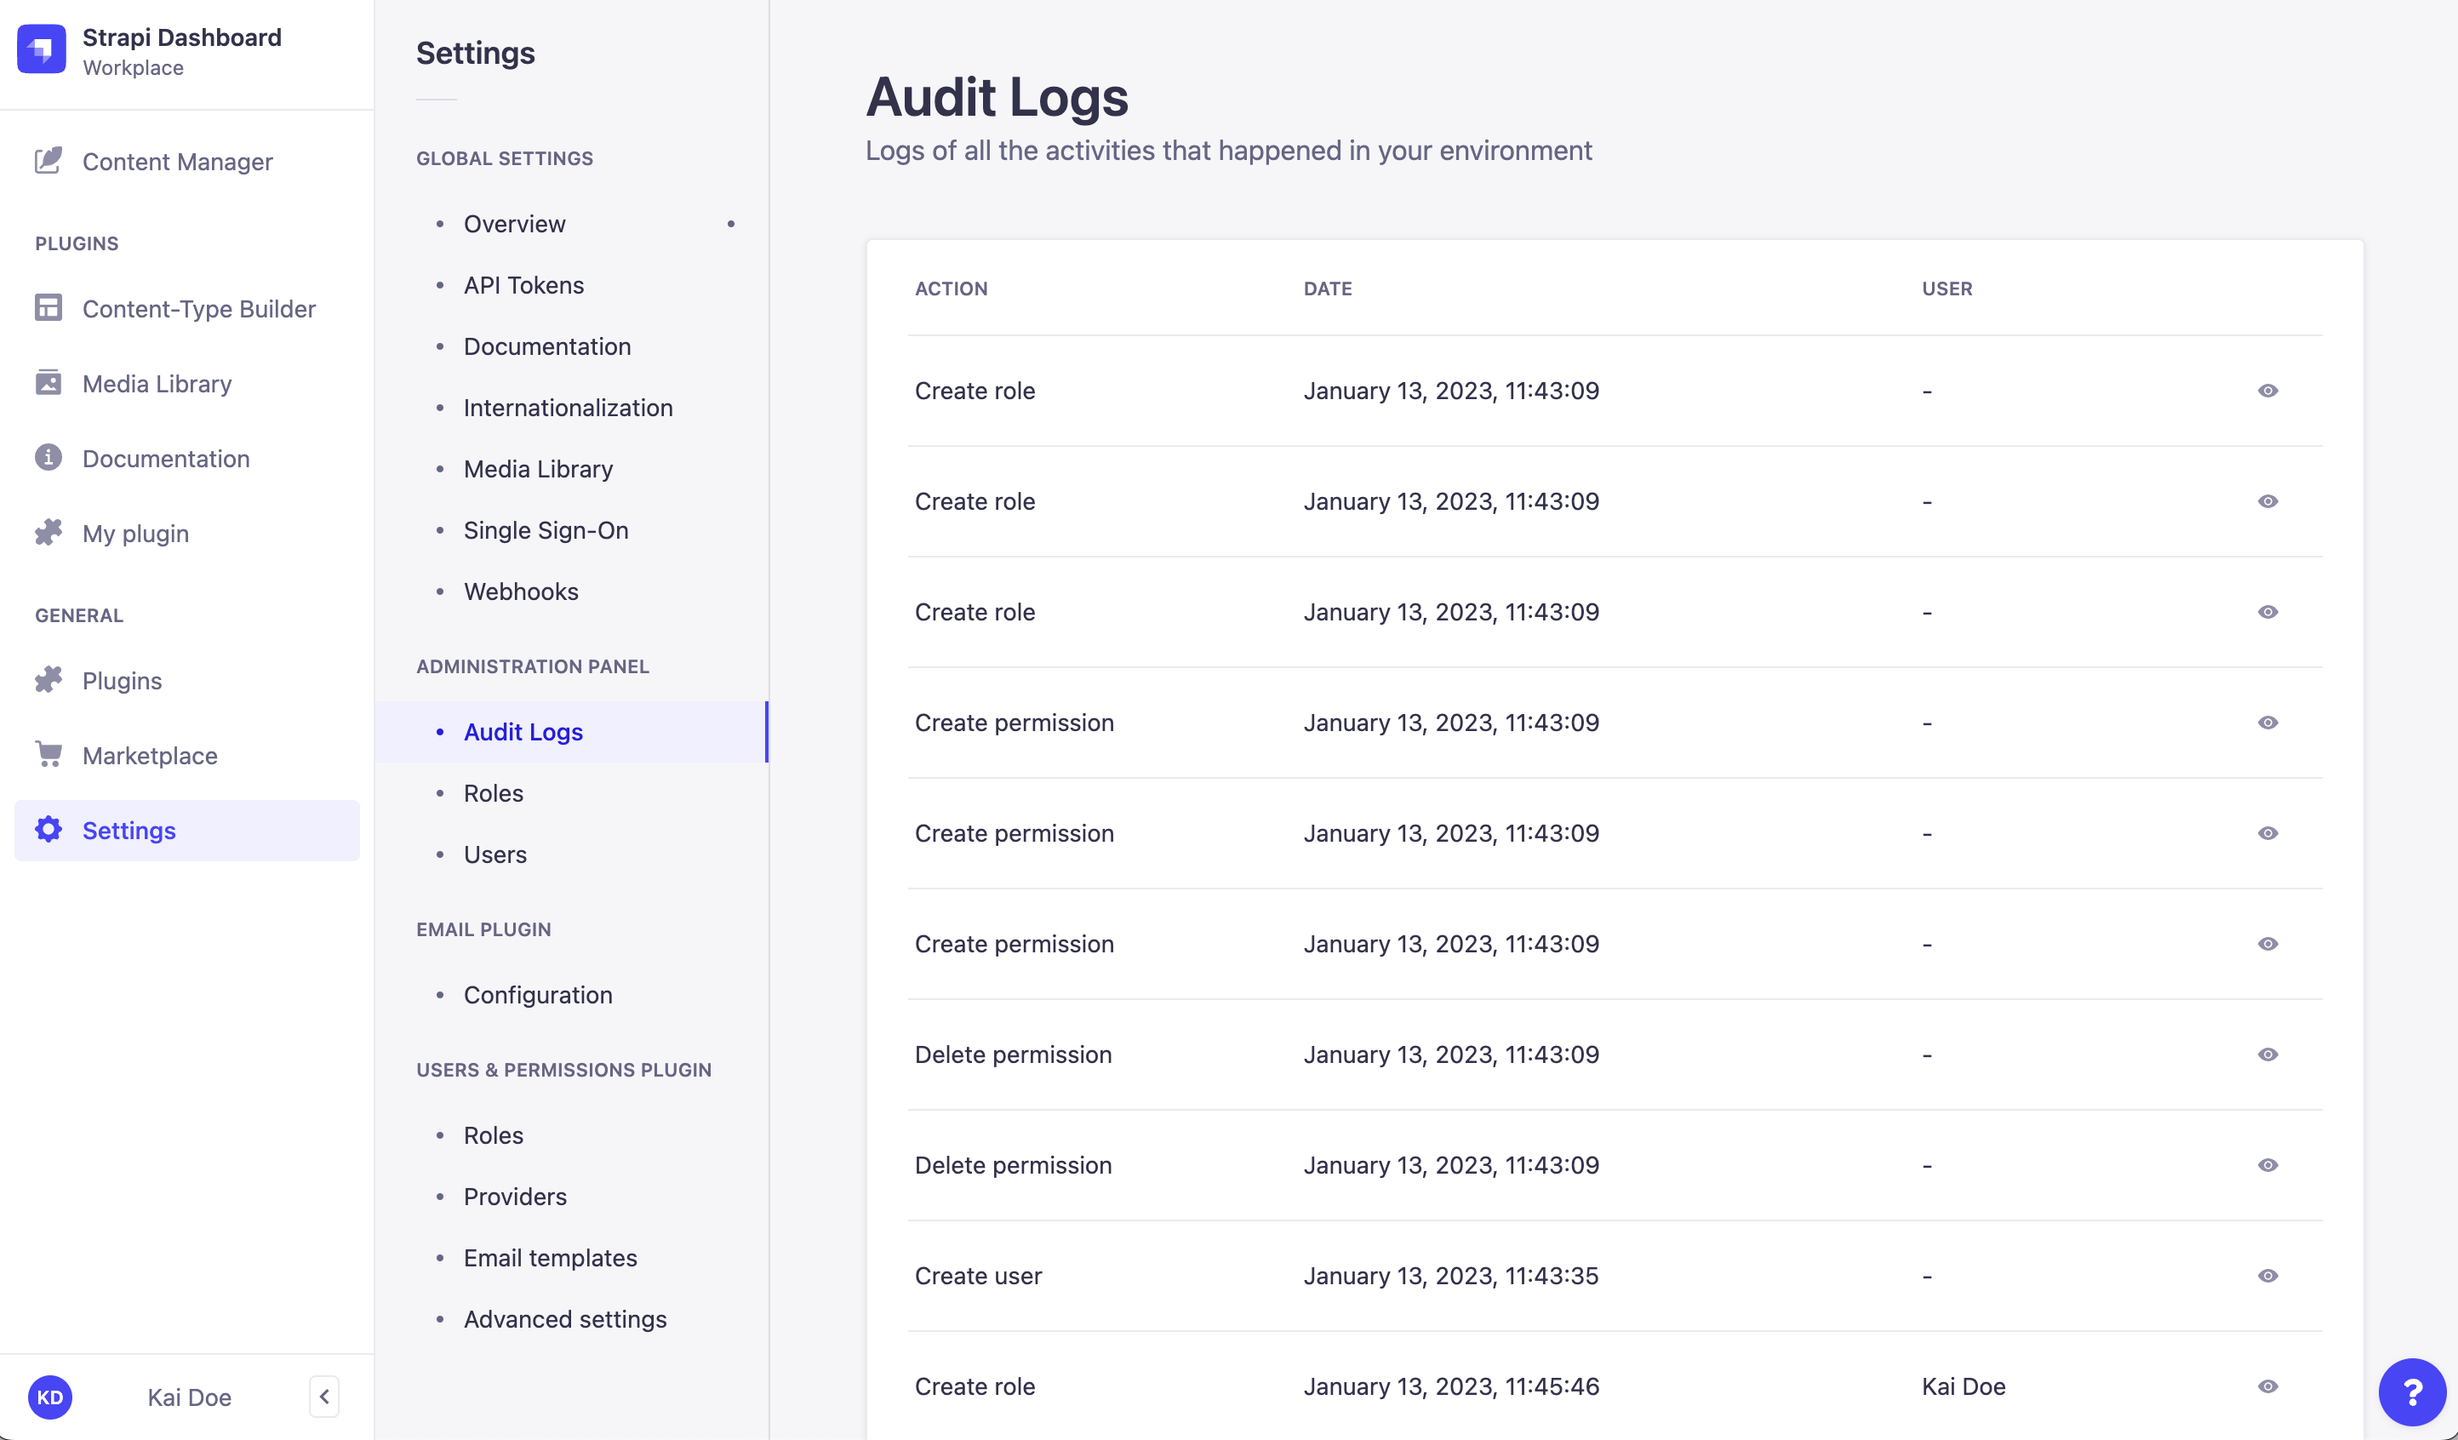
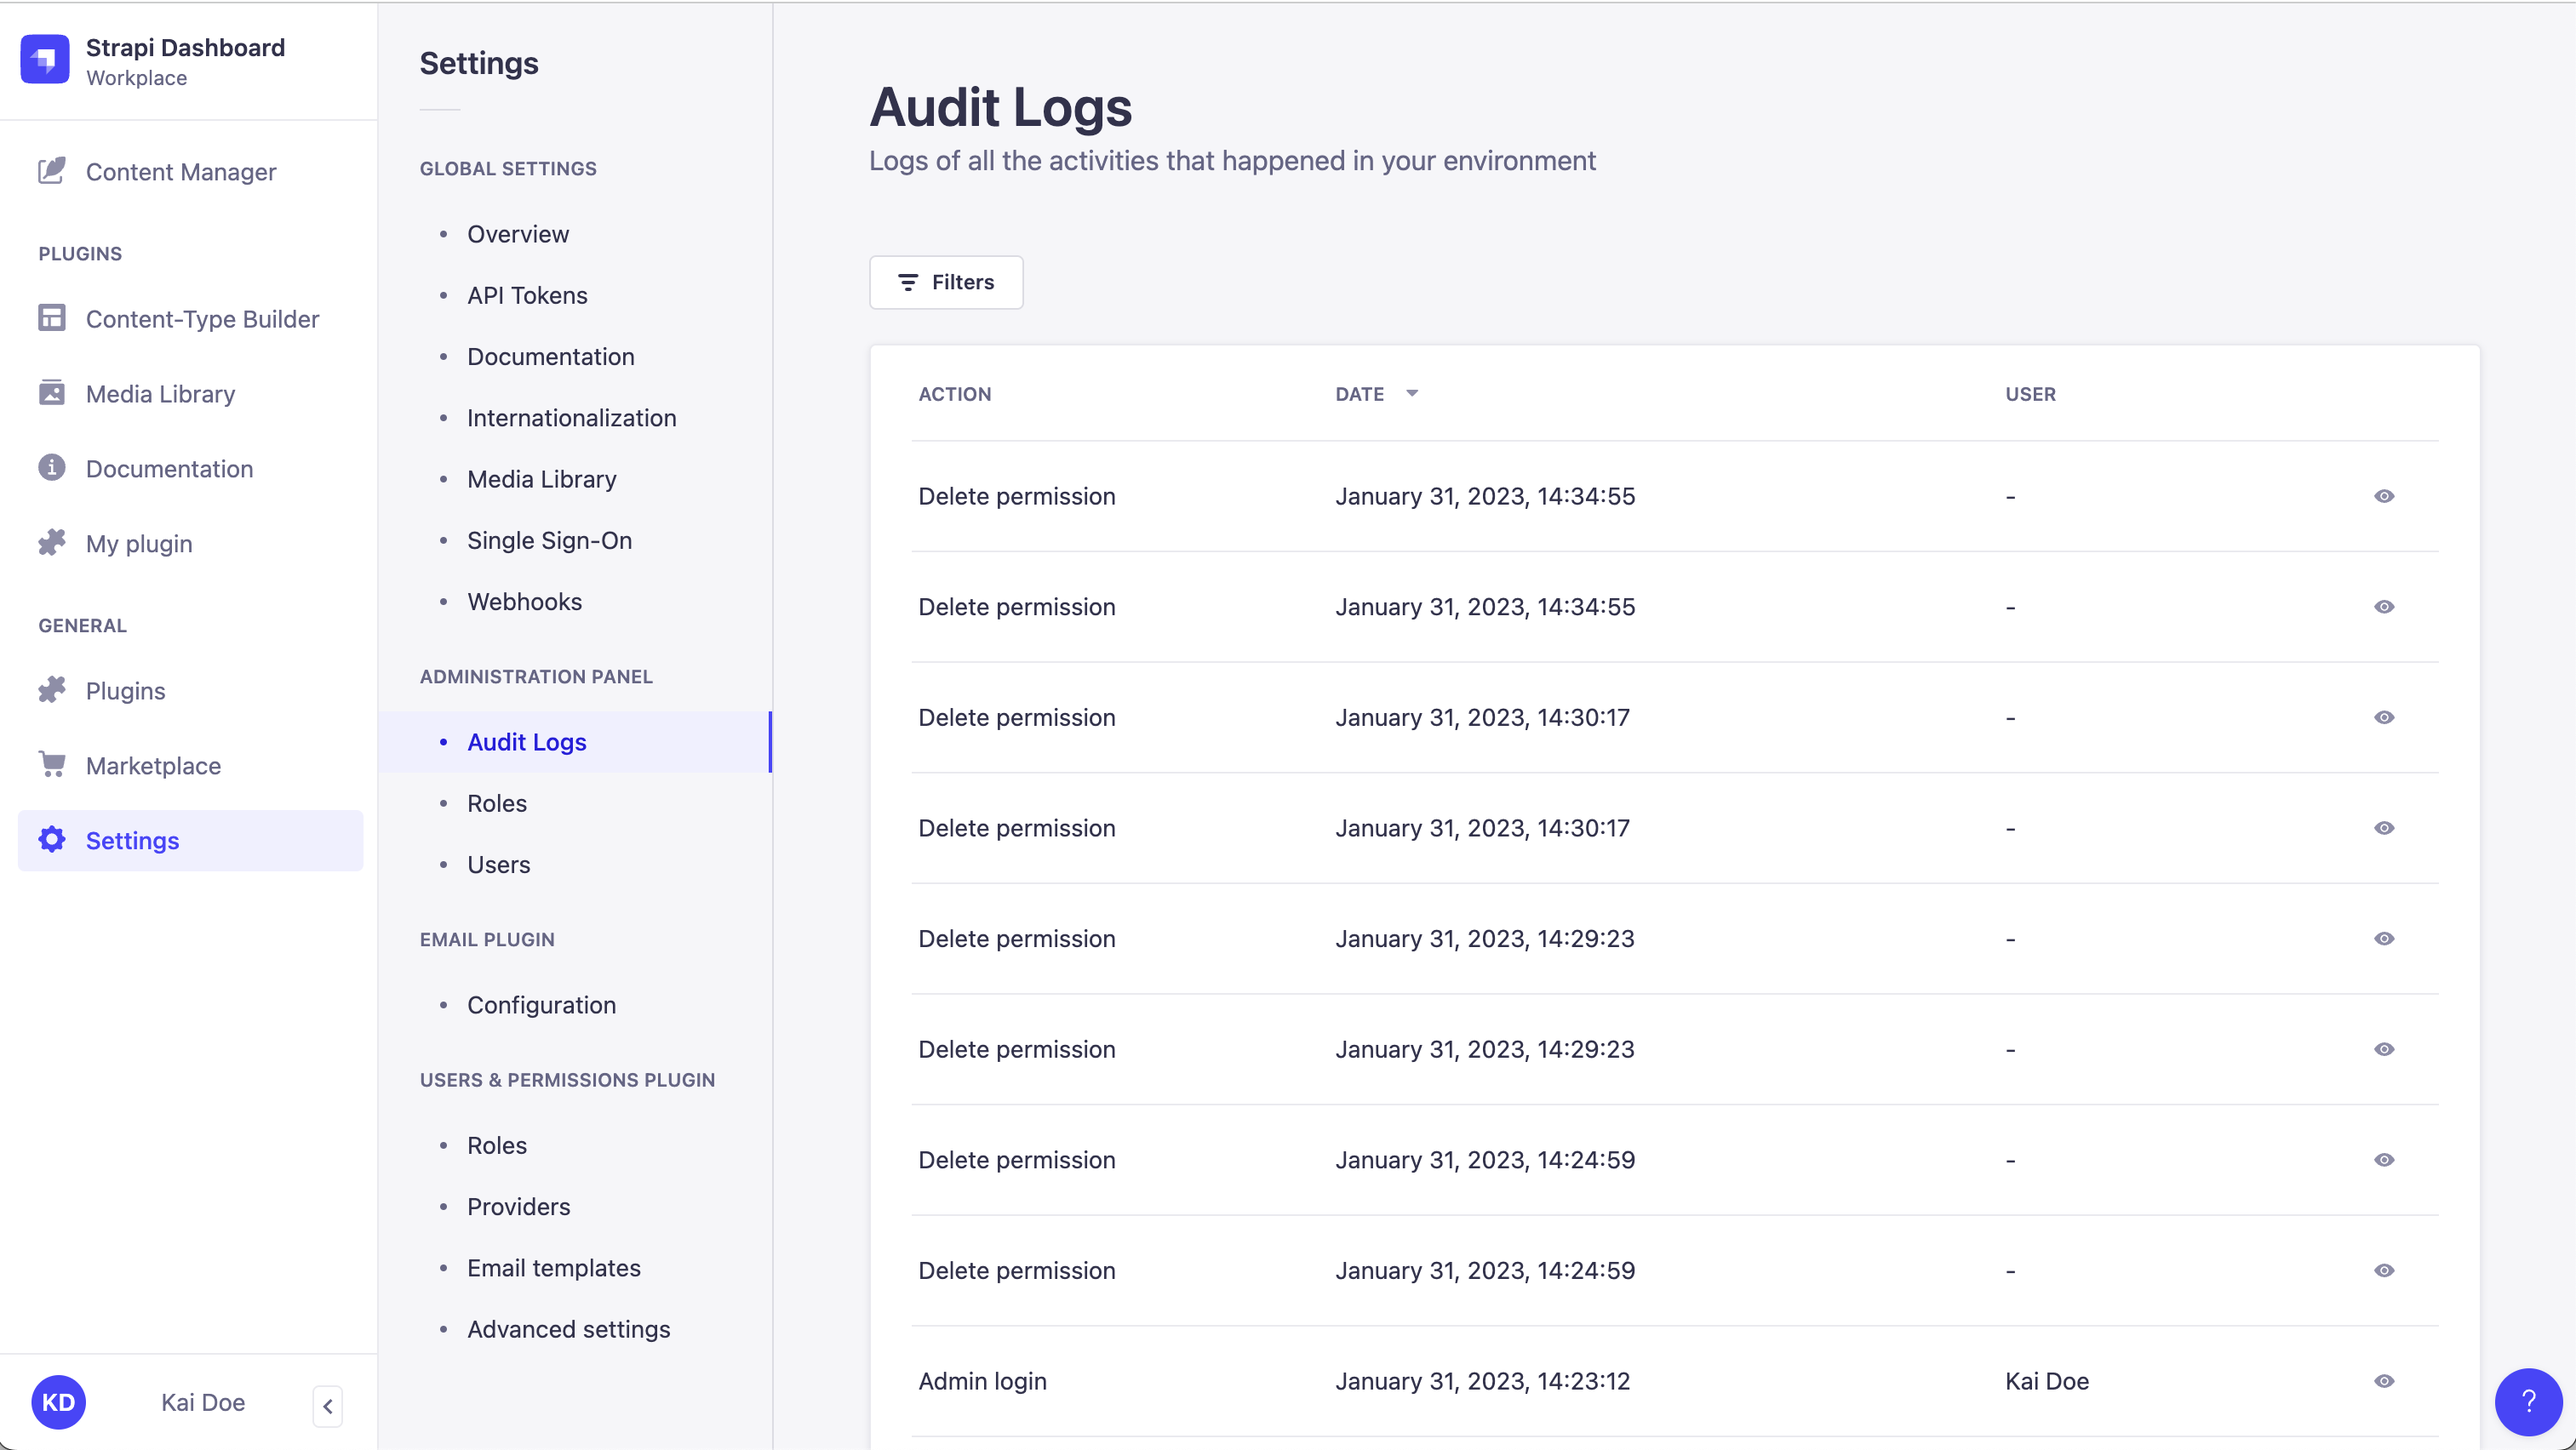
Adds Filtering

diff --git a/docs/user-docs/latest/settings/audit-logs.md b/docs/user-docs/latest/settings/audit-logs.md
@@ -6,7 +6,7 @@ canonicalUrl: https://docs.strapi.io/user-docs/latest/settings/audit-logs.html
 
 # Audit Logs <GoldBadge withLinkIcon link="https://strapi.io/pricing-self-hosted" />
 
-The **Audit Logs** section provides a <!--searchable and filterable--> display of all activities performed by users of the Strapi application.
+The **Audit Logs** section provides a searchable and filterable display of all activities performed by users of the Strapi application.
 
 Audit logs are only accessible to users with the **Super Admin** role by default. They are available in the **Administration Panel** section of the [**Settings**](./managing-global-settings.md) panel.
 
@@ -33,18 +33,19 @@ For each log item the following information is displayed:
 * **User**: The user who performed the action.
 * **Details**: Displays a modal with more details about the action. For example the User IP address, the request body, or the response body.
 
-<!--
+
 ## Filtering logs
 
 The **Audit Logs** page displays all logs by default, in reverse chronological order. You can filter the logs by:
 
 * **Action**: Select the type of action to filter by. For example `create` or `update`.
 * **User**: Select the user to filter by.
-* **Date**: Select a date (range) to filter by.
-* **Time**: Select a time (range) to filter by.
-* **+Add Filter**: Create a custom filter by selecting a field and a value.
+* **Date**: Select a date (range) and time to filter by.
+
+![Audit Logs filters](../assets/settings/settings_audit-logs-filters.png)
 
 
+<!--
 ### Creating a custom filter
 
 WiP
@@ -60,5 +61,7 @@ Click the **Search** icon to search for a specific log. The search is performed 
 For any log item, click the **Details** icon to display a modal with more details about that action.
 
 ![Log details modal](../assets/settings/settings_log-details.png)
+
+The **Payload** details are displayed in an interactive JSON component, enabling you to expand and collapse the JSON object.
 
 <FeedbackPlaceholder />
